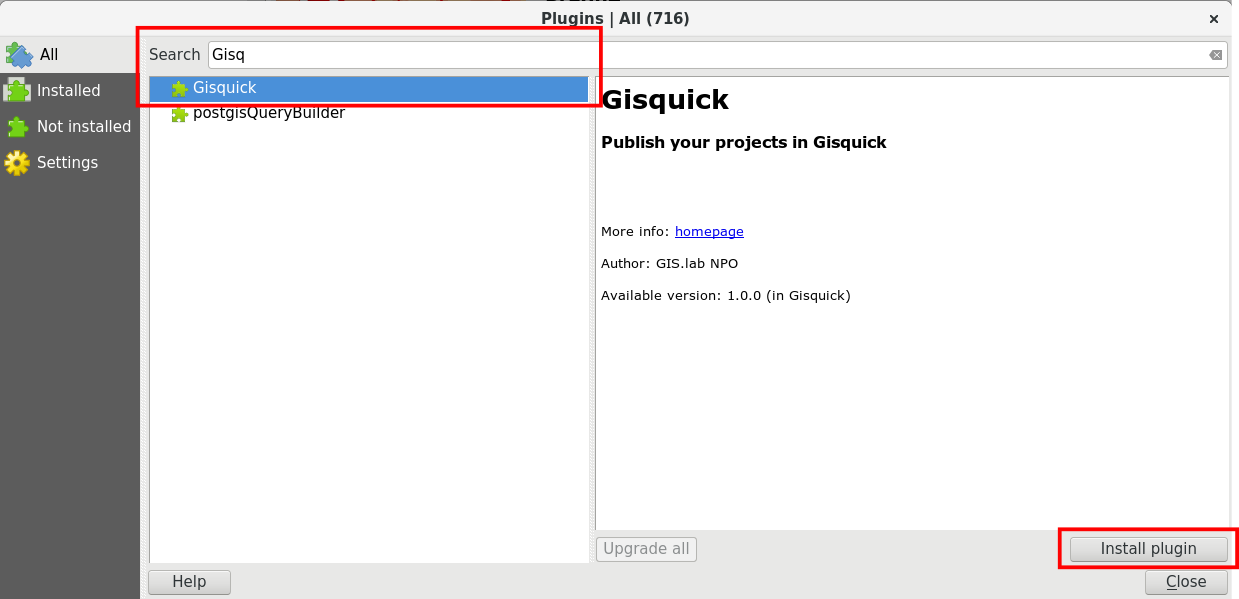
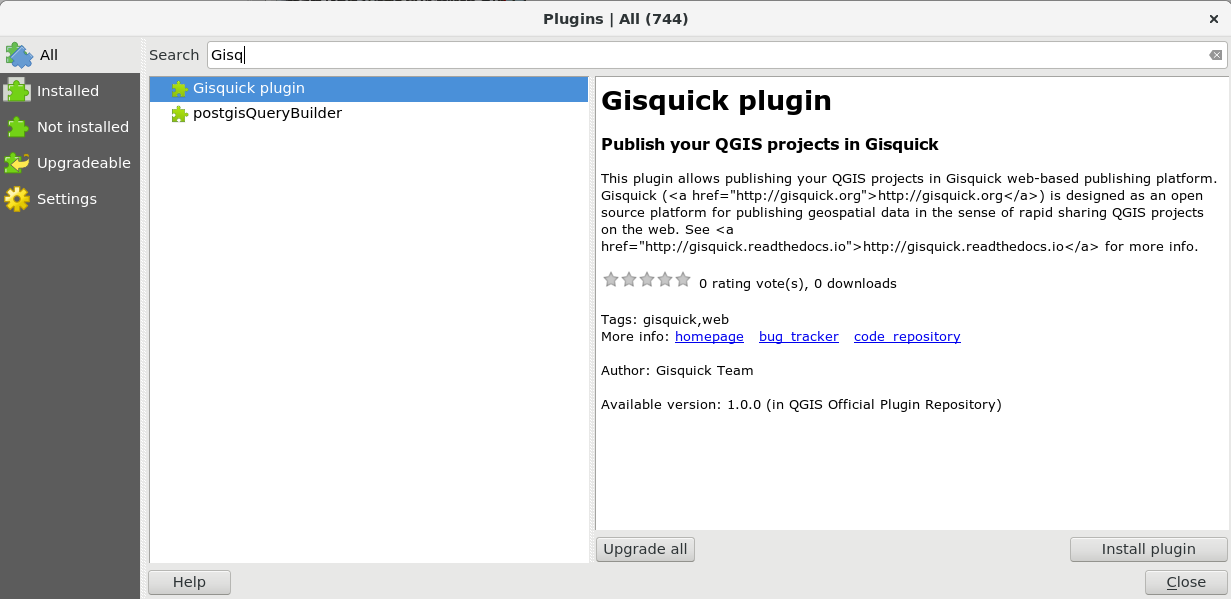
clean-up plugin install procedure

diff --git a/installation/plugin.rst b/installation/plugin.rst
@@ -12,24 +12,14 @@ Source code of the plugin is available from GitHub
 <https://github.com/gislab-npo/gisquick-qgis-plugin>`_ repository and
 licensed under `GNU General Public License
 <https://github.com/gislab-npo/gisquick-qgis-plugin/blob/master/LICENSE>`__
-version 2 or later.
+version 3.
 
 Plugin can be installed in QGIS Desktop from :menuselection:`Plugins
---> Manage and Install Plugins` as other QGIS plugins.
+--> Manage and Install Plugins` as other QGIS plugins (see `QGIS
+Python Plugins Repository
+<http://plugins.qgis.org/plugins/gisquick-qgis-plugin>`__).
 
-.. important:: |imp| Currently Gisquick plugin **is not** available
-   from QGIS Plugins Repository. Therefore is necessary to register
-   new repository, see URL bellow
-
-   ::
-      
-      https://raw.githubusercontent.com/gislab-npo/gisquick-qgis-plugin/gh-pages/qgis-plugins.xml
-
-   .. figure:: ../img/installation/qgis-plugin-repo.png
-
-      Add Gisquick repository.
-
-.. figure:: ../img/installation/qgis-plugin-install.png
+.. figure:: ../img/installation/qgis-plugin-install.svg
 
    Install Gisquick QGIS plugin.
                
